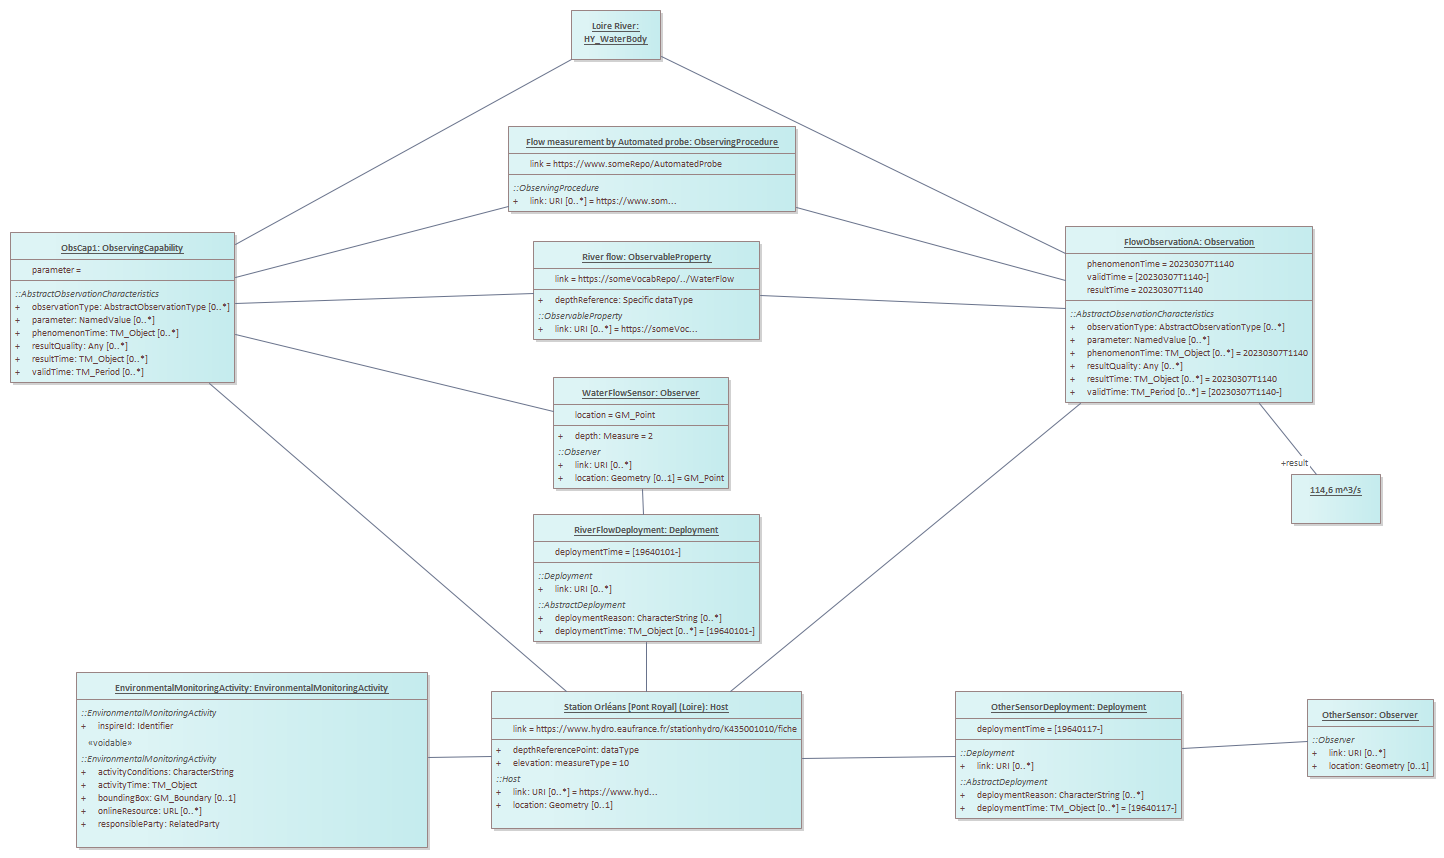
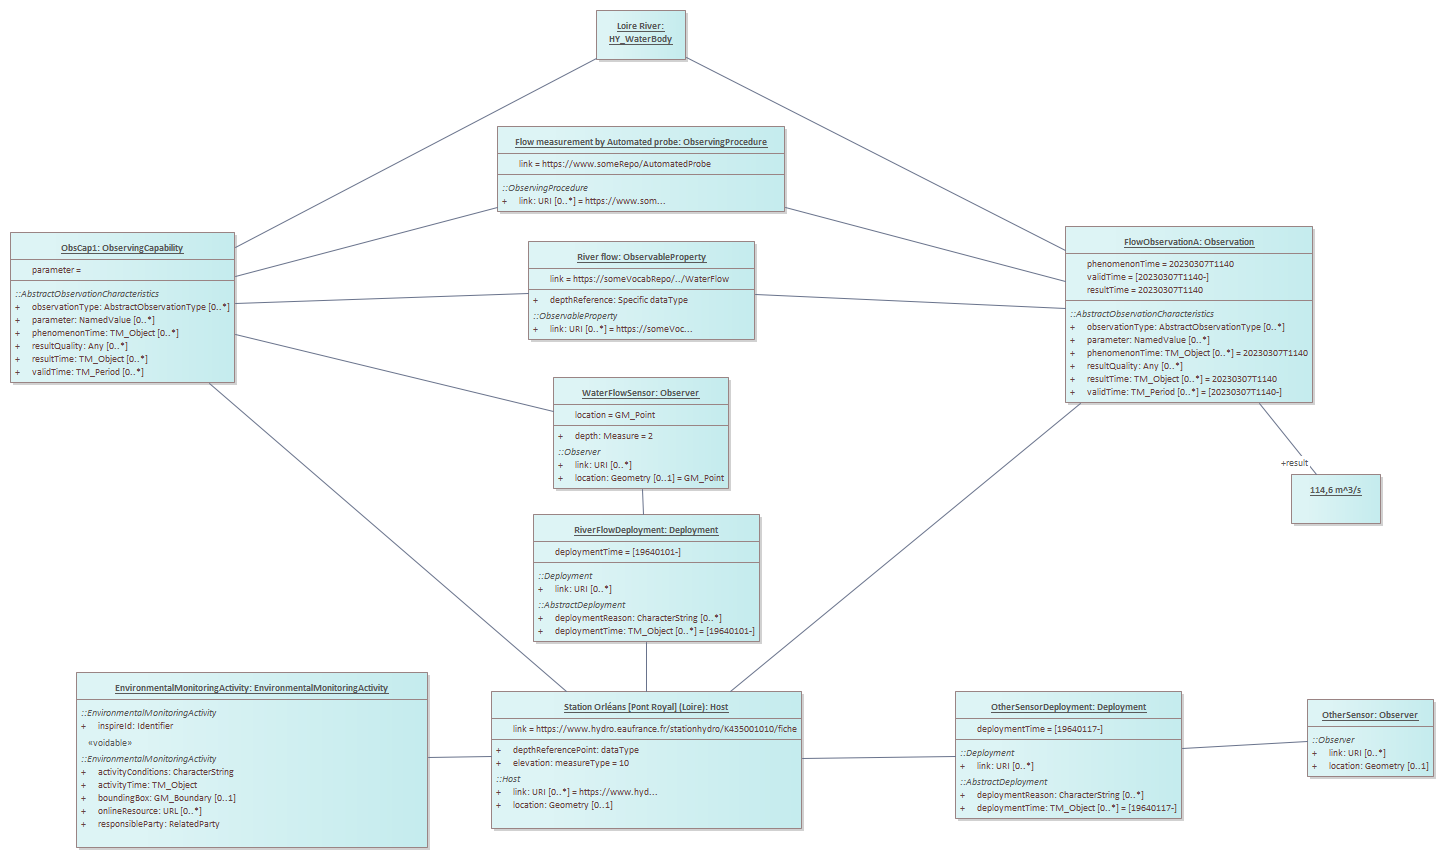
trailing update

diff --git a/Model/HTML/index.htm b/Model/HTML/index.htm
@@ -91,7 +91,64 @@
 						<h2>Welcome to your model</h2>
 						<p>To get started navigate through the model via the index on the left</p> 
 						</div>
-						
+						<div class="PageBody">
+	<div class=diagram_image> 
+<img src="./EARoot/EA1/EA1/EA11.png" usemap="#EA11" border="0" />
+
+<MAP NAME="EA11">
+<area shape="rect" coords="609,10,699,60" href="EARoot/../EA4/EA74.htm" target="_self">
+<area shape="rect" coords="1670,874,1760,924" href="EARoot/EA27.htm" target="_self">
+<area shape="rect" coords="1419,671,1722,861" href="EARoot/EA25.htm" target="_self">
+<area shape="rect" coords="1143,32,1272,82" href="EARoot/EA21.htm" target="_self">
+<area shape="rect" coords="1515,65,1847,149" href="EARoot/EA20.htm" target="_self">
+<area shape="rect" coords="1398,463,1488,513" href="EARoot/EA17.htm" target="_self">
+<area shape="rect" coords="1057,1049,1184,1127" href="EARoot/EA15.htm" target="_self">
+<area shape="rect" coords="743,899,970,1027" href="EARoot/EA16.htm" target="_self">
+<area shape="rect" coords="10,643,372,806" href="EARoot/EA13.htm" target="_self">
+<area shape="rect" coords="521,513,788,641" href="EARoot/EA19.htm" target="_self">
+<area shape="rect" coords="20,228,245,379" href="EARoot/EA26.htm" target="_self">
+<area shape="rect" coords="523,228,787,327" href="EARoot/EA28.htm" target="_self">
+<area shape="rect" coords="511,102,799,201" href="EARoot/EA22.htm" target="_self">
+<area shape="rect" coords="578,700,731,806" href="EARoot/EA18.htm" target="_self">
+<area shape="rect" coords="567,359,743,472" href="EARoot/EA29.htm" target="_self">
+<area shape="rect" coords="1204,217,1591,429" href="EARoot/EA24.htm" target="_self">
+</MAP>
+ </div>
+	<div class="ObjectTitle">InSitu_QualityObservation_Collection : Object diagram</div>
+	<table border="0" cellpadding="0" cellspacing="0" class="ObjectDetails">
+		<tr>
+			<td width="15%" class="ObjectDetailsTopic">Created:</td>
+			<td width="85%" class="ObjectDetailsValue">28/02/2023 00:00:00</td>
+		</tr>
+		<tr>
+			<td width="15%" class="ObjectDetailsTopic">Modified:</td>
+			<td width="85%" class="ObjectDetailsValue">07/03/2023 14:11:51</td>
+		</tr>
+		<tr style="padding-top: 10px;">
+			<td width="15%" class="ObjectDetailsTopic"><button onclick="switchProjectProperties()"><img src="./images//plus03.gif" align="absmiddle" id="proj" /></button>Project:</td>
+			<td width="85%" class="ObjectDetailsValue"></td>			
+		</tr>
+		<tr id="proj00" style="display: none;">
+			<td width="15%" class="ObjectDetailsTopic" style="padding-left: 18px;">Author:</td>
+			<td width="85%" class="ObjectDetailsValue">grellets</td>
+		</tr>
+		<tr id="proj01" style="display: none;">
+			<td width="15%" class="ObjectDetailsTopic" style="padding-left: 18px;">Version:</td>
+			<td width="85%" class="ObjectDetailsValue">1.0</td>
+		</tr>
+		<tr>
+			<td width="15%" class="ObjectDetailsTopic"><button onclick="switchAdvancedProperties()"><img src="./images//plus03.gif" align="absmiddle" id="adv" /></button>Advanced:</td>
+			<td width="85%" class="ObjectDetailsValue"></td>			
+		</tr>
+		<tr id="adv00" style="display: none;">
+			<td width="15%" class="ObjectDetailsTopic" style="padding-left: 18px;">ID:</td>
+			<td width="85%" class="ObjectDetailsValue">{209EFFF2-DEB0-4688-B5EE-746E47E2054C}</td>
+		</tr>
+	</table>
+	
+</div>
+
+
 					</td>
 				</tr>
 			</tbody>

diff --git a/Model/HTML/EARoot/EA1/EA4/EA62.htm b/Model/HTML/EARoot/EA1/EA4/EA62.htm
@@ -114,13 +114,13 @@
 <area shape="rect" coords="1065,226,1313,403" href="EA67.htm" target="_self">
 <area shape="rect" coords="553,377,729,489" href="EA82.htm" target="_self">
 <area shape="rect" coords="533,514,760,642" href="EA79.htm" target="_self">
-<area shape="rect" coords="533,241,760,340" href="EA78.htm" target="_self">
+<area shape="rect" coords="528,241,755,340" href="EA78.htm" target="_self">
 <area shape="rect" coords="955,691,1182,819" href="EA77.htm" target="_self">
 <area shape="rect" coords="1307,699,1434,777" href="EA76.htm" target="_self">
 <area shape="rect" coords="10,232,235,383" href="EA75.htm" target="_self">
 <area shape="rect" coords="76,672,428,848" href="EA71.htm" target="_self">
-<area shape="rect" coords="508,126,796,212" href="EA72.htm" target="_self">
-<area shape="rect" coords="571,10,661,60" href="EA74.htm" target="_self">
+<area shape="rect" coords="497,126,785,212" href="EA72.htm" target="_self">
+<area shape="rect" coords="596,10,686,60" href="EA74.htm" target="_self">
 <area shape="rect" coords="1291,474,1381,524" href="EA69.htm" target="_self">
 <area shape="rect" coords="491,691,802,829" href="EA68.htm" target="_self">
 </MAP>
@@ -133,7 +133,7 @@
 		</tr>
 		<tr>
 			<td width="15%" class="ObjectDetailsTopic">Modified:</td>
-			<td width="85%" class="ObjectDetailsValue">07/03/2023 13:18:20</td>
+			<td width="85%" class="ObjectDetailsValue">10/03/2023 14:26:45</td>
 		</tr>
 		<tr style="padding-top: 10px;">
 			<td width="15%" class="ObjectDetailsTopic"><button onclick="switchProjectProperties()"><img src="../../../images/plus03.gif" align="absmiddle" id="proj" /></button>Project:</td>

diff --git a/Model/HTML/EARoot/EA1/EA4/EA64.htm b/Model/HTML/EARoot/EA1/EA4/EA64.htm
@@ -112,10 +112,10 @@
 
 <MAP NAME="EA65">
 <area shape="rect" coords="499,736,810,861" href="EA68.htm" target="_self">
-<area shape="rect" coords="1122,290,1370,467" href="EA67.htm" target="_self">
+<area shape="rect" coords="1130,262,1378,439" href="EA67.htm" target="_self">
 <area shape="rect" coords="1340,476,1430,526" href="EA69.htm" target="_self">
 <area shape="rect" coords="1670,887,1760,937" href="EA70.htm" target="_self">
-<area shape="rect" coords="1419,684,1722,874" href="EA73.htm" target="_self">
+<area shape="rect" coords="1346,614,1649,804" href="EA73.htm" target="_self">
 <area shape="rect" coords="1143,45,1272,95" href="EA81.htm" target="_self">
 <area shape="rect" coords="1479,61,1811,145" href="EA80.htm" target="_self">
 <area shape="rect" coords="1154,1044,1281,1122" href="EA76.htm" target="_self">
@@ -137,7 +137,7 @@
 		</tr>
 		<tr>
 			<td width="15%" class="ObjectDetailsTopic">Modified:</td>
-			<td width="85%" class="ObjectDetailsValue">07/03/2023 13:20:08</td>
+			<td width="85%" class="ObjectDetailsValue">10/03/2023 14:26:44</td>
 		</tr>
 		<tr style="padding-top: 10px;">
 			<td width="15%" class="ObjectDetailsTopic"><button onclick="switchProjectProperties()"><img src="../../../images/plus03.gif" align="absmiddle" id="proj" /></button>Project:</td>

diff --git a/Model/HTML/EARoot/EA1/EA6.htm b/Model/HTML/EARoot/EA1/EA6.htm
@@ -85,7 +85,7 @@
 						<div class="projectBrowserTitle">Project: </div>
 						<ul>
 <li><img src="../../images/177.png" alt="Diagram"/> <a href="./EA3/EA34.htm">Sample_and_Lab_Observation</a></li>
-<li><img src="../../images/177.png" alt=""/> <a href="./EA3/EA36.htm">Sample_and_Lab_ObservationCollections</a></li>
+<li><img src="../../images/177.png" alt="Diagram"/> <a href="./EA3/EA36.htm">Sample_and_Lab_ObservationCollections</a></li>
 <li><img src="../../images/25.png" alt="Object"/> <a href="./EA3/EA56.htm">0.1 µgrams per liter</a></li>
 <li><img src="../../images/25.png" alt="Object"/> <a href="./EA3/EA39.htm">250 µSiemens.centimeter</a></li>
 <li><img src="../../images/25.png" alt="Object"/> <a href="./EA3/EA40.htm">ChurnSplitter: SamplingProcedure</a></li>

diff --git a/Model/HTML/EARoot/EA1/EA3/EA34.htm b/Model/HTML/EARoot/EA1/EA3/EA34.htm
@@ -85,7 +85,7 @@
 						<div class="projectBrowserTitle">Project: </div>
 						<ul>
 <li><img src="../../../images/177.png" alt="Diagram"/> <a href="EA34.htm">Sample_and_Lab_Observation</a></li>
-<li><img src="../../../images/177.png" alt=""/> <a href="EA36.htm">Sample_and_Lab_ObservationCollections</a></li>
+<li><img src="../../../images/177.png" alt="Diagram"/> <a href="EA36.htm">Sample_and_Lab_ObservationCollections</a></li>
 <li><img src="../../../images/25.png" alt="Object"/> <a href="EA56.htm">0.1 µgrams per liter</a></li>
 <li><img src="../../../images/25.png" alt="Object"/> <a href="EA39.htm">250 µSiemens.centimeter</a></li>
 <li><img src="../../../images/25.png" alt="Object"/> <a href="EA40.htm">ChurnSplitter: SamplingProcedure</a></li>

diff --git a/Model/HTML/EARoot/EA1/EA3/EA36.htm b/Model/HTML/EARoot/EA1/EA3/EA36.htm
@@ -85,7 +85,7 @@
 						<div class="projectBrowserTitle">Project: </div>
 						<ul>
 <li><img src="../../../images/177.png" alt="Diagram"/> <a href="EA34.htm">Sample_and_Lab_Observation</a></li>
-<li><img src="../../../images/177.png" alt=""/> <a href="EA36.htm">Sample_and_Lab_ObservationCollections</a></li>
+<li><img src="../../../images/177.png" alt="Diagram"/> <a href="EA36.htm">Sample_and_Lab_ObservationCollections</a></li>
 <li><img src="../../../images/25.png" alt="Object"/> <a href="EA56.htm">0.1 µgrams per liter</a></li>
 <li><img src="../../../images/25.png" alt="Object"/> <a href="EA39.htm">250 µSiemens.centimeter</a></li>
 <li><img src="../../../images/25.png" alt="Object"/> <a href="EA40.htm">ChurnSplitter: SamplingProcedure</a></li>

diff --git a/Model/HTML/EARoot/EA1/EA3/EA38.htm b/Model/HTML/EARoot/EA1/EA3/EA38.htm
@@ -85,7 +85,7 @@
 						<div class="projectBrowserTitle">Project: </div>
 						<ul>
 <li><img src="../../../images/177.png" alt="Diagram"/> <a href="EA34.htm">Sample_and_Lab_Observation</a></li>
-<li><img src="../../../images/177.png" alt=""/> <a href="EA36.htm">Sample_and_Lab_ObservationCollections</a></li>
+<li><img src="../../../images/177.png" alt="Diagram"/> <a href="EA36.htm">Sample_and_Lab_ObservationCollections</a></li>
 <li><img src="../../../images/25.png" alt="Object"/> <a href="EA56.htm">0.1 µgrams per liter</a></li>
 <li><img src="../../../images/25.png" alt="Object"/> <a href="EA39.htm">250 µSiemens.centimeter</a></li>
 <li><img src="../../../images/25.png" alt="Object"/> <a href="EA40.htm">ChurnSplitter: SamplingProcedure</a></li>
